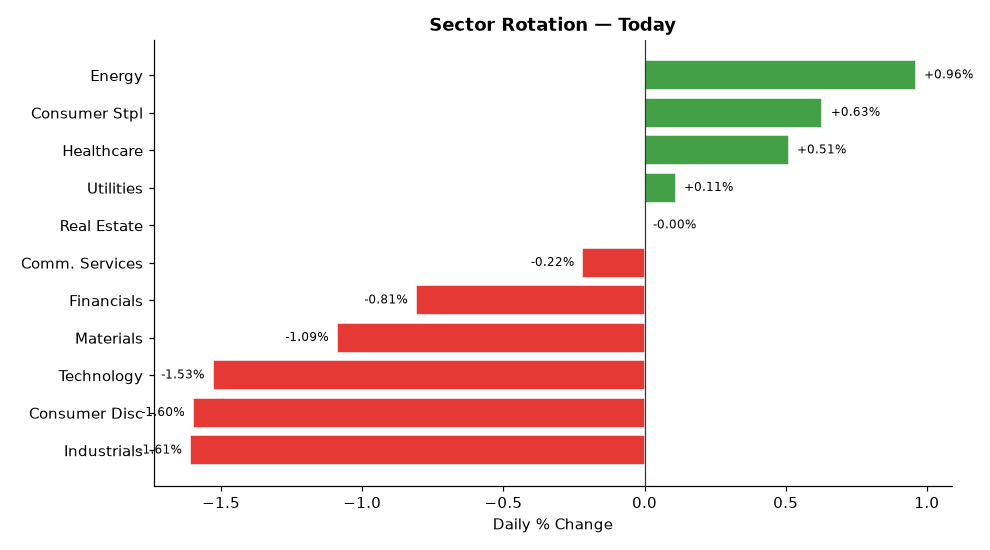
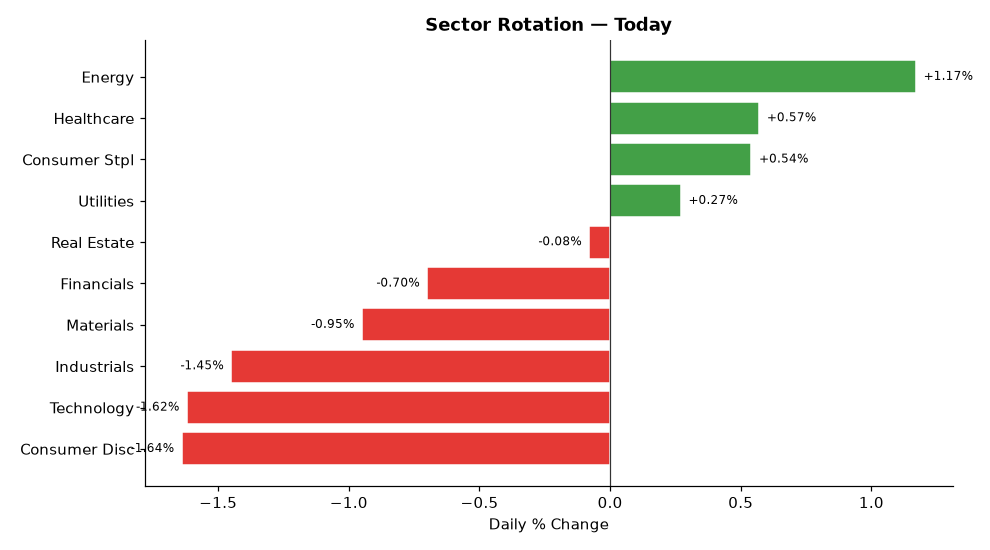
deploy: b7fadf5b06deb90e7ebb92f278722414bdd9750d

diff --git a/index.html b/index.html
@@ -4,7 +4,7 @@
   <meta charset="UTF-8">
   <meta name="viewport" content="width=device-width,initial-scale=1">
   <meta http-equiv="Cache-Control" content="no-cache,no-store,must-revalidate">
-  <title>Stock Breakout Screener — 2026-09-01 17:22</title>
+  <title>Stock Breakout Screener — 2026-09-01 17:54</title>
   <style>
     *{box-sizing:border-box;margin:0;padding:0}
     body{font-family:'Segoe UI',Arial,sans-serif;background:#f0f2f5;
@@ -34,7 +34,7 @@
 
 <div class="hdr">
   <h1>📈 Stock Breakout Screener</h1>
-  <p>Updated: 2026-09-01 17:22 UTC &nbsp;·&nbsp; Phase: Regular Market Hours &nbsp;·&nbsp;
+  <p>Updated: 2026-09-01 17:54 UTC &nbsp;·&nbsp; Phase: Regular Market Hours &nbsp;·&nbsp;
      129 stocks screened &nbsp;·&nbsp; Top 5 by conviction score</p>
 </div>
 
@@ -69,7 +69,7 @@
             </span>
           </div>
           <ul style="margin:0;padding-left:18px;font-size:13px;
-                     color:#333;line-height:1.8"><li style="margin:5px 0"><span style="background:#ffebee;color:#b71c1c;padding:2px 7px;border-radius:4px;font-size:11px;">❌</span> Volume: <b>0.4× average</b> — Above-average activity</li><li style="margin:5px 0"><span style="background:#ffebee;color:#b71c1c;padding:2px 7px;border-radius:4px;font-size:11px;">❌</span> Candle: close <b>$209.52</b> vs open <b>$209.00</b> (+0.2%) — regular market close</li><li style="margin:5px 0"><span style="background:#e8f5e9;color:#2e7d32;padding:2px 7px;border-radius:4px;font-size:11px;">✅</span> 200-Day MA: price <b>$209.52</b> vs MA <b>$187.71</b> — <b>✅ Above</b> long-term trend</li><li style="margin:5px 0"><span style="background:#e8f5e9;color:#2e7d32;padding:2px 7px;border-radius:4px;font-size:11px;">✅</span> Inst. ownership: <b>71.1%</b> · MFI: <b>65.3</b> · Market cap: <b>$411.0B</b></li></ul>
+                     color:#333;line-height:1.8"><li style="margin:5px 0"><span style="background:#ffebee;color:#b71c1c;padding:2px 7px;border-radius:4px;font-size:11px;">❌</span> Volume: <b>0.5× average</b> — Above-average activity</li><li style="margin:5px 0"><span style="background:#ffebee;color:#b71c1c;padding:2px 7px;border-radius:4px;font-size:11px;">❌</span> Candle: close <b>$210.33</b> vs open <b>$209.00</b> (+0.6%) — regular market close</li><li style="margin:5px 0"><span style="background:#e8f5e9;color:#2e7d32;padding:2px 7px;border-radius:4px;font-size:11px;">✅</span> 200-Day MA: price <b>$210.33</b> vs MA <b>$187.71</b> — <b>✅ Above</b> long-term trend</li><li style="margin:5px 0"><span style="background:#e8f5e9;color:#2e7d32;padding:2px 7px;border-radius:4px;font-size:11px;">✅</span> Inst. ownership: <b>71.1%</b> · MFI: <b>65.6</b> · Market cap: <b>$412.5B</b></li></ul>
         </div>
         <div style="background:#fff;border:1px solid #ddd;border-radius:10px;
                     padding:16px 20px;margin-bottom:12px;
@@ -86,7 +86,7 @@
             </span>
           </div>
           <ul style="margin:0;padding-left:18px;font-size:13px;
-                     color:#333;line-height:1.8"><li style="margin:5px 0"><span style="background:#ffebee;color:#b71c1c;padding:2px 7px;border-radius:4px;font-size:11px;">❌</span> Volume: <b>0.4× average</b> — Above-average activity</li><li style="margin:5px 0"><span style="background:#ffebee;color:#b71c1c;padding:2px 7px;border-radius:4px;font-size:11px;">❌</span> Candle: close <b>$75.06</b> vs open <b>$75.56</b> (-0.7%) — regular market close</li><li style="margin:5px 0"><span style="background:#e8f5e9;color:#2e7d32;padding:2px 7px;border-radius:4px;font-size:11px;">✅</span> 200-Day MA: price <b>$75.06</b> vs MA <b>$73.15</b> — <b>✅ Above</b> long-term trend</li><li style="margin:5px 0"><span style="background:#e8f5e9;color:#2e7d32;padding:2px 7px;border-radius:4px;font-size:11px;">✅</span> Inst. ownership: <b>91.4%</b> · MFI: <b>67.0</b> · Market cap: <b>$91.8B</b></li></ul>
+                     color:#333;line-height:1.8"><li style="margin:5px 0"><span style="background:#ffebee;color:#b71c1c;padding:2px 7px;border-radius:4px;font-size:11px;">❌</span> Volume: <b>0.4× average</b> — Above-average activity</li><li style="margin:5px 0"><span style="background:#ffebee;color:#b71c1c;padding:2px 7px;border-radius:4px;font-size:11px;">❌</span> Candle: close <b>$75.23</b> vs open <b>$75.56</b> (-0.4%) — regular market close</li><li style="margin:5px 0"><span style="background:#e8f5e9;color:#2e7d32;padding:2px 7px;border-radius:4px;font-size:11px;">✅</span> 200-Day MA: price <b>$75.23</b> vs MA <b>$73.15</b> — <b>✅ Above</b> long-term trend</li><li style="margin:5px 0"><span style="background:#e8f5e9;color:#2e7d32;padding:2px 7px;border-radius:4px;font-size:11px;">✅</span> Inst. ownership: <b>91.4%</b> · MFI: <b>67.0</b> · Market cap: <b>$92.0B</b></li></ul>
         </div>
         <div style="background:#fff;border:1px solid #ddd;border-radius:10px;
                     padding:16px 20px;margin-bottom:12px;
@@ -103,7 +103,7 @@
             </span>
           </div>
           <ul style="margin:0;padding-left:18px;font-size:13px;
-                     color:#333;line-height:1.8"><li style="margin:5px 0"><span style="background:#ffebee;color:#b71c1c;padding:2px 7px;border-radius:4px;font-size:11px;">❌</span> Volume: <b>0.5× average</b> — Above-average activity</li><li style="margin:5px 0"><span style="background:#ffebee;color:#b71c1c;padding:2px 7px;border-radius:4px;font-size:11px;">❌</span> Candle: close <b>$95.39</b> vs open <b>$97.70</b> (-2.4%) — regular market close</li><li style="margin:5px 0"><span style="background:#e8f5e9;color:#2e7d32;padding:2px 7px;border-radius:4px;font-size:11px;">✅</span> 200-Day MA: price <b>$95.39</b> vs MA <b>$88.06</b> — <b>✅ Above</b> long-term trend</li><li style="margin:5px 0"><span style="background:#e8f5e9;color:#2e7d32;padding:2px 7px;border-radius:4px;font-size:11px;">✅</span> Inst. ownership: <b>84.8%</b> · MFI: <b>67.2</b> · Market cap: <b>$60.1B</b></li></ul>
+                     color:#333;line-height:1.8"><li style="margin:5px 0"><span style="background:#ffebee;color:#b71c1c;padding:2px 7px;border-radius:4px;font-size:11px;">❌</span> Volume: <b>0.5× average</b> — Above-average activity</li><li style="margin:5px 0"><span style="background:#ffebee;color:#b71c1c;padding:2px 7px;border-radius:4px;font-size:11px;">❌</span> Candle: close <b>$95.66</b> vs open <b>$97.70</b> (-2.1%) — regular market close</li><li style="margin:5px 0"><span style="background:#e8f5e9;color:#2e7d32;padding:2px 7px;border-radius:4px;font-size:11px;">✅</span> 200-Day MA: price <b>$95.66</b> vs MA <b>$88.01</b> — <b>✅ Above</b> long-term trend</li><li style="margin:5px 0"><span style="background:#e8f5e9;color:#2e7d32;padding:2px 7px;border-radius:4px;font-size:11px;">✅</span> Inst. ownership: <b>84.8%</b> · MFI: <b>67.8</b> · Market cap: <b>$60.3B</b></li></ul>
         </div>
         <div style="background:#fff;border:1px solid #ddd;border-radius:10px;
                     padding:16px 20px;margin-bottom:12px;
@@ -120,7 +120,7 @@
             </span>
           </div>
           <ul style="margin:0;padding-left:18px;font-size:13px;
-                     color:#333;line-height:1.8"><li style="margin:5px 0"><span style="background:#ffebee;color:#b71c1c;padding:2px 7px;border-radius:4px;font-size:11px;">❌</span> Volume: <b>0.6× average</b> — Above-average activity</li><li style="margin:5px 0"><span style="background:#ffebee;color:#b71c1c;padding:2px 7px;border-radius:4px;font-size:11px;">❌</span> Candle: close <b>$57.81</b> vs open <b>$60.00</b> (-3.6%) — regular market close</li><li style="margin:5px 0"><span style="background:#e8f5e9;color:#2e7d32;padding:2px 7px;border-radius:4px;font-size:11px;">✅</span> 200-Day MA: price <b>$57.81</b> vs MA <b>$51.55</b> — <b>✅ Above</b> long-term trend</li><li style="margin:5px 0"><span style="background:#e8f5e9;color:#2e7d32;padding:2px 7px;border-radius:4px;font-size:11px;">✅</span> Inst. ownership: <b>92.8%</b> · MFI: <b>68.0</b> · Market cap: <b>$85.8B</b></li><li style="margin:5px 0"><span style="background:#ffebee;color:#b71c1c;padding:2px 7px;border-radius:4px;font-size:11px;">❌</span> Last similar breakout: <b>Aug 31, 2026</b> → <b>-3.8%</b> over 10 trading days</li></ul>
+                     color:#333;line-height:1.8"><li style="margin:5px 0"><span style="background:#ffebee;color:#b71c1c;padding:2px 7px;border-radius:4px;font-size:11px;">❌</span> Volume: <b>0.6× average</b> — Above-average activity</li><li style="margin:5px 0"><span style="background:#ffebee;color:#b71c1c;padding:2px 7px;border-radius:4px;font-size:11px;">❌</span> Candle: close <b>$57.91</b> vs open <b>$60.00</b> (-3.5%) — regular market close</li><li style="margin:5px 0"><span style="background:#e8f5e9;color:#2e7d32;padding:2px 7px;border-radius:4px;font-size:11px;">✅</span> 200-Day MA: price <b>$57.91</b> vs MA <b>$51.50</b> — <b>✅ Above</b> long-term trend</li><li style="margin:5px 0"><span style="background:#e8f5e9;color:#2e7d32;padding:2px 7px;border-radius:4px;font-size:11px;">✅</span> Inst. ownership: <b>92.8%</b> · MFI: <b>60.4</b> · Market cap: <b>$85.9B</b></li><li style="margin:5px 0"><span style="background:#ffebee;color:#b71c1c;padding:2px 7px;border-radius:4px;font-size:11px;">❌</span> Last similar breakout: <b>Aug 31, 2026</b> → <b>-3.6%</b> over 10 trading days</li></ul>
         </div>
         <div style="background:#fff;border:1px solid #ddd;border-radius:10px;
                     padding:16px 20px;margin-bottom:12px;
@@ -137,7 +137,7 @@
             </span>
           </div>
           <ul style="margin:0;padding-left:18px;font-size:13px;
-                     color:#333;line-height:1.8"><li style="margin:5px 0"><span style="background:#ffebee;color:#b71c1c;padding:2px 7px;border-radius:4px;font-size:11px;">❌</span> Volume: <b>0.3× average</b> — Above-average activity</li><li style="margin:5px 0"><span style="background:#ffebee;color:#b71c1c;padding:2px 7px;border-radius:4px;font-size:11px;">❌</span> Candle: close <b>$36.92</b> vs open <b>$37.04</b> (-0.3%) — regular market close</li><li style="margin:5px 0"><span style="background:#e8f5e9;color:#2e7d32;padding:2px 7px;border-radius:4px;font-size:11px;">✅</span> 200-Day MA: price <b>$36.92</b> vs MA <b>$36.73</b> — <b>✅ Above</b> long-term trend</li><li style="margin:5px 0"><span style="background:#e8f5e9;color:#2e7d32;padding:2px 7px;border-radius:4px;font-size:11px;">✅</span> Inst. ownership: <b>90.5%</b> · MFI: <b>60.3</b> · Market cap: <b>$30.8B</b></li></ul>
+                     color:#333;line-height:1.8"><li style="margin:5px 0"><span style="background:#ffebee;color:#b71c1c;padding:2px 7px;border-radius:4px;font-size:11px;">❌</span> Volume: <b>0.3× average</b> — Above-average activity</li><li style="margin:5px 0"><span style="background:#ffebee;color:#b71c1c;padding:2px 7px;border-radius:4px;font-size:11px;">❌</span> Candle: close <b>$37.04</b> vs open <b>$37.04</b> (+0.0%) — regular market close</li><li style="margin:5px 0"><span style="background:#e8f5e9;color:#2e7d32;padding:2px 7px;border-radius:4px;font-size:11px;">✅</span> 200-Day MA: price <b>$37.04</b> vs MA <b>$36.73</b> — <b>✅ Above</b> long-term trend</li><li style="margin:5px 0"><span style="background:#e8f5e9;color:#2e7d32;padding:2px 7px;border-radius:4px;font-size:11px;">✅</span> Inst. ownership: <b>90.5%</b> · MFI: <b>60.2</b> · Market cap: <b>$30.9B</b></li></ul>
         </div>
 
 
@@ -169,17 +169,17 @@
         <tr>
           <td style="font-weight:700;text-align:left;padding-left:10px">
             🟡 CVX</td>
-          <td style="background:#ffcdd2">0.4×</td>
-          <td style="background:#ffcdd2">+0.2%</td>
+          <td style="background:#ffcdd2">0.5×</td>
+          <td style="background:#ffcdd2">+0.6%</td>
           <td style="background:#c8e6c9">
             ▲ Above</td>
           <td style="background:#c8e6c9">
             71.1%</td>
           <td style="background:#c8e6c9">
-            65.3</td>
+            65.6</td>
           <td style="background:#c8e6c9">Energy</td>
           <td style="background:#c8e6c9">
-            50.9%</td>
+            45.2%</td>
           <td style="background:#ffcdd2">
             N/A</td>
           <td style="font-weight:800;font-size:15px">11/17</td>
@@ -188,7 +188,7 @@
           <td style="font-weight:700;text-align:left;padding-left:10px">
             🟡 WMB</td>
           <td style="background:#ffcdd2">0.4×</td>
-          <td style="background:#ffcdd2">-0.7%</td>
+          <td style="background:#ffcdd2">-0.4%</td>
           <td style="background:#c8e6c9">
             ▲ Above</td>
           <td style="background:#c8e6c9">
@@ -197,7 +197,7 @@
             67.0</td>
           <td style="background:#c8e6c9">Energy</td>
           <td style="background:#c8e6c9">
-            88.6%</td>
+            89.7%</td>
           <td style="background:#ffcdd2">
             N/A</td>
           <td style="font-weight:800;font-size:15px">11/17</td>
@@ -206,16 +206,16 @@
           <td style="font-weight:700;text-align:left;padding-left:10px">
             🟡 OKE</td>
           <td style="background:#ffcdd2">0.5×</td>
-          <td style="background:#ffcdd2">-2.4%</td>
+          <td style="background:#ffcdd2">-2.1%</td>
           <td style="background:#c8e6c9">
             ▲ Above</td>
           <td style="background:#c8e6c9">
             84.8%</td>
           <td style="background:#c8e6c9">
-            67.2</td>
+            67.8</td>
           <td style="background:#c8e6c9">Energy</td>
           <td style="background:#c8e6c9">
-            51.8%</td>
+            45.8%</td>
           <td style="background:#ffcdd2">
             N/A</td>
           <td style="font-weight:800;font-size:15px">11/17</td>
@@ -224,34 +224,34 @@
           <td style="font-weight:700;text-align:left;padding-left:10px">
             🟡 SLB</td>
           <td style="background:#ffcdd2">0.6×</td>
-          <td style="background:#ffcdd2">-3.6%</td>
+          <td style="background:#ffcdd2">-3.5%</td>
           <td style="background:#c8e6c9">
             ▲ Above</td>
           <td style="background:#c8e6c9">
             92.8%</td>
           <td style="background:#c8e6c9">
-            68.0</td>
+            60.4</td>
           <td style="background:#c8e6c9">Energy</td>
           <td style="background:#c8e6c9">
-            153.7%</td>
+            137.8%</td>
           <td style="background:#ffcdd2">
-            -3.8%</td>
+            -3.6%</td>
           <td style="font-weight:800;font-size:15px">11/17</td>
         </tr>
         <tr>
           <td style="font-weight:700;text-align:left;padding-left:10px">
             🟡 HAL</td>
           <td style="background:#ffcdd2">0.3×</td>
-          <td style="background:#ffcdd2">-0.3%</td>
+          <td style="background:#ffcdd2">+0.0%</td>
           <td style="background:#c8e6c9">
             ▲ Above</td>
           <td style="background:#c8e6c9">
             90.5%</td>
           <td style="background:#c8e6c9">
-            60.3</td>
+            60.2</td>
           <td style="background:#c8e6c9">Energy</td>
           <td style="background:#c8e6c9">
-            75.8%</td>
+            77.6%</td>
           <td style="background:#ffcdd2">
             N/A</td>
           <td style="font-weight:800;font-size:15px">11/17</td>
@@ -278,57 +278,57 @@
         <tr>
           <td style="text-align:left;padding-left:10px;font-weight:600">
             #1 Energy</td>
-          <td style="background:#e8f5e9;color:#2e7d32;font-weight:700">+0.96%</td>
+          <td style="background:#e8f5e9;color:#2e7d32;font-weight:700">+1.17%</td>
         </tr>
         <tr>
           <td style="text-align:left;padding-left:10px;font-weight:600">
-            #2 Consumer Stpl</td>
-          <td style="background:#e8f5e9;color:#2e7d32;font-weight:700">+0.63%</td>
+            #2 Healthcare</td>
+          <td style="background:#e8f5e9;color:#2e7d32;font-weight:700">+0.57%</td>
         </tr>
         <tr>
           <td style="text-align:left;padding-left:10px;font-weight:600">
-            #3 Healthcare</td>
-          <td style="background:#e8f5e9;color:#2e7d32;font-weight:700">+0.51%</td>
+            #3 Consumer Stpl</td>
+          <td style="background:#e8f5e9;color:#2e7d32;font-weight:700">+0.54%</td>
         </tr>
         <tr>
           <td style="text-align:left;padding-left:10px;font-weight:600">
             #4 Utilities</td>
-          <td style="background:#e8f5e9;color:#2e7d32;font-weight:700">+0.11%</td>
+          <td style="background:#e8f5e9;color:#2e7d32;font-weight:700">+0.27%</td>
         </tr>
         <tr>
           <td style="text-align:left;padding-left:10px;font-weight:600">
             #5 Real Estate</td>
-          <td style="background:#ffebee;color:#c62828;font-weight:700">-0.00%</td>
+          <td style="background:#ffebee;color:#c62828;font-weight:700">-0.08%</td>
         </tr>
         <tr>
           <td style="text-align:left;padding-left:10px;font-weight:600">
-            #6 Comm. Services</td>
-          <td style="background:#ffebee;color:#c62828;font-weight:700">-0.22%</td>
+            #6 Financials</td>
+          <td style="background:#ffebee;color:#c62828;font-weight:700">-0.70%</td>
         </tr>
         <tr>
           <td style="text-align:left;padding-left:10px;font-weight:600">
-            #7 Financials</td>
-          <td style="background:#ffebee;color:#c62828;font-weight:700">-0.81%</td>
+            #7 Materials</td>
+          <td style="background:#ffebee;color:#c62828;font-weight:700">-0.95%</td>
         </tr>
         <tr>
           <td style="text-align:left;padding-left:10px;font-weight:600">
-            #8 Materials</td>
-          <td style="background:#ffebee;color:#c62828;font-weight:700">-1.09%</td>
+            #8 Industrials</td>
+          <td style="background:#ffebee;color:#c62828;font-weight:700">-1.45%</td>
         </tr>
         <tr>
           <td style="text-align:left;padding-left:10px;font-weight:600">
             #9 Technology</td>
-          <td style="background:#ffebee;color:#c62828;font-weight:700">-1.53%</td>
+          <td style="background:#ffebee;color:#c62828;font-weight:700">-1.62%</td>
         </tr>
         <tr>
           <td style="text-align:left;padding-left:10px;font-weight:600">
             #10 Consumer Disc</td>
-          <td style="background:#ffebee;color:#c62828;font-weight:700">-1.60%</td>
+          <td style="background:#ffebee;color:#c62828;font-weight:700">-1.64%</td>
         </tr>
         <tr>
           <td style="text-align:left;padding-left:10px;font-weight:600">
-            #11 Industrials</td>
-          <td style="background:#ffebee;color:#c62828;font-weight:700">-1.61%</td>
+            #11 Comm. Services</td>
+          <td style="background:#ffebee;color:#c62828;font-weight:700">+nan%</td>
         </tr>
     </table>
   </div>
@@ -367,7 +367,7 @@
         <li><b>Scoring weights:</b>
             Inst.Own(3) · Sector(3) · Volume(2) · Breakout(2) ·
             MA200(2) · MFI(2) · History(2) · IV(1) = 17pts max</li>
-        <li><b>Run time:</b> 2026-09-01 17:22 UTC — Market phase: Regular Market Hours</li>
+        <li><b>Run time:</b> 2026-09-01 17:54 UTC — Market phase: Regular Market Hours</li>
       </ul>
     </div>
 
